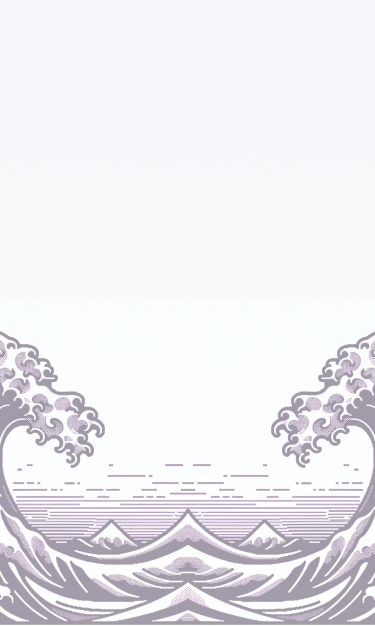
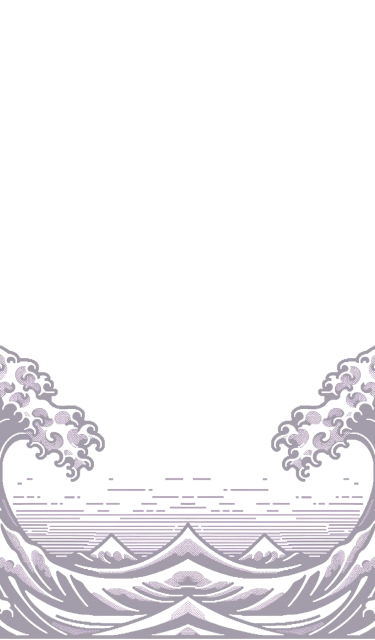
style: hero bg changes

Changed region(s): [[0.0, 0.516, 1.0, 0.9712]]

diff --git a/components/HomepageSection/Hero.jsx b/components/HomepageSection/Hero.jsx
@@ -15,9 +15,11 @@ const Hero = () => (
     flex 
     flex-col 
     bg-center
-    bg-cover 
-    bg-[url('/images/homepage/mobile-hero.png')] 
+    bg-cover
+    bg-no-repeat
+    bg-[url('/images/homepage/mobile-hero.png'),linear-gradient(to_top,rgba(243,245,249,0.9),rgba(255,255,255,0.1))] 
     md:bg-[url('/images/homepage/hero.png'),linear-gradient(to_top,rgba(243,245,249,0.9),rgba(255,255,255,0.1))]
+    md:bg-auto
     xl:bg-cover "
   >
     <div className="max-w-screen-xl lg:px-12 mx-auto text-center">
